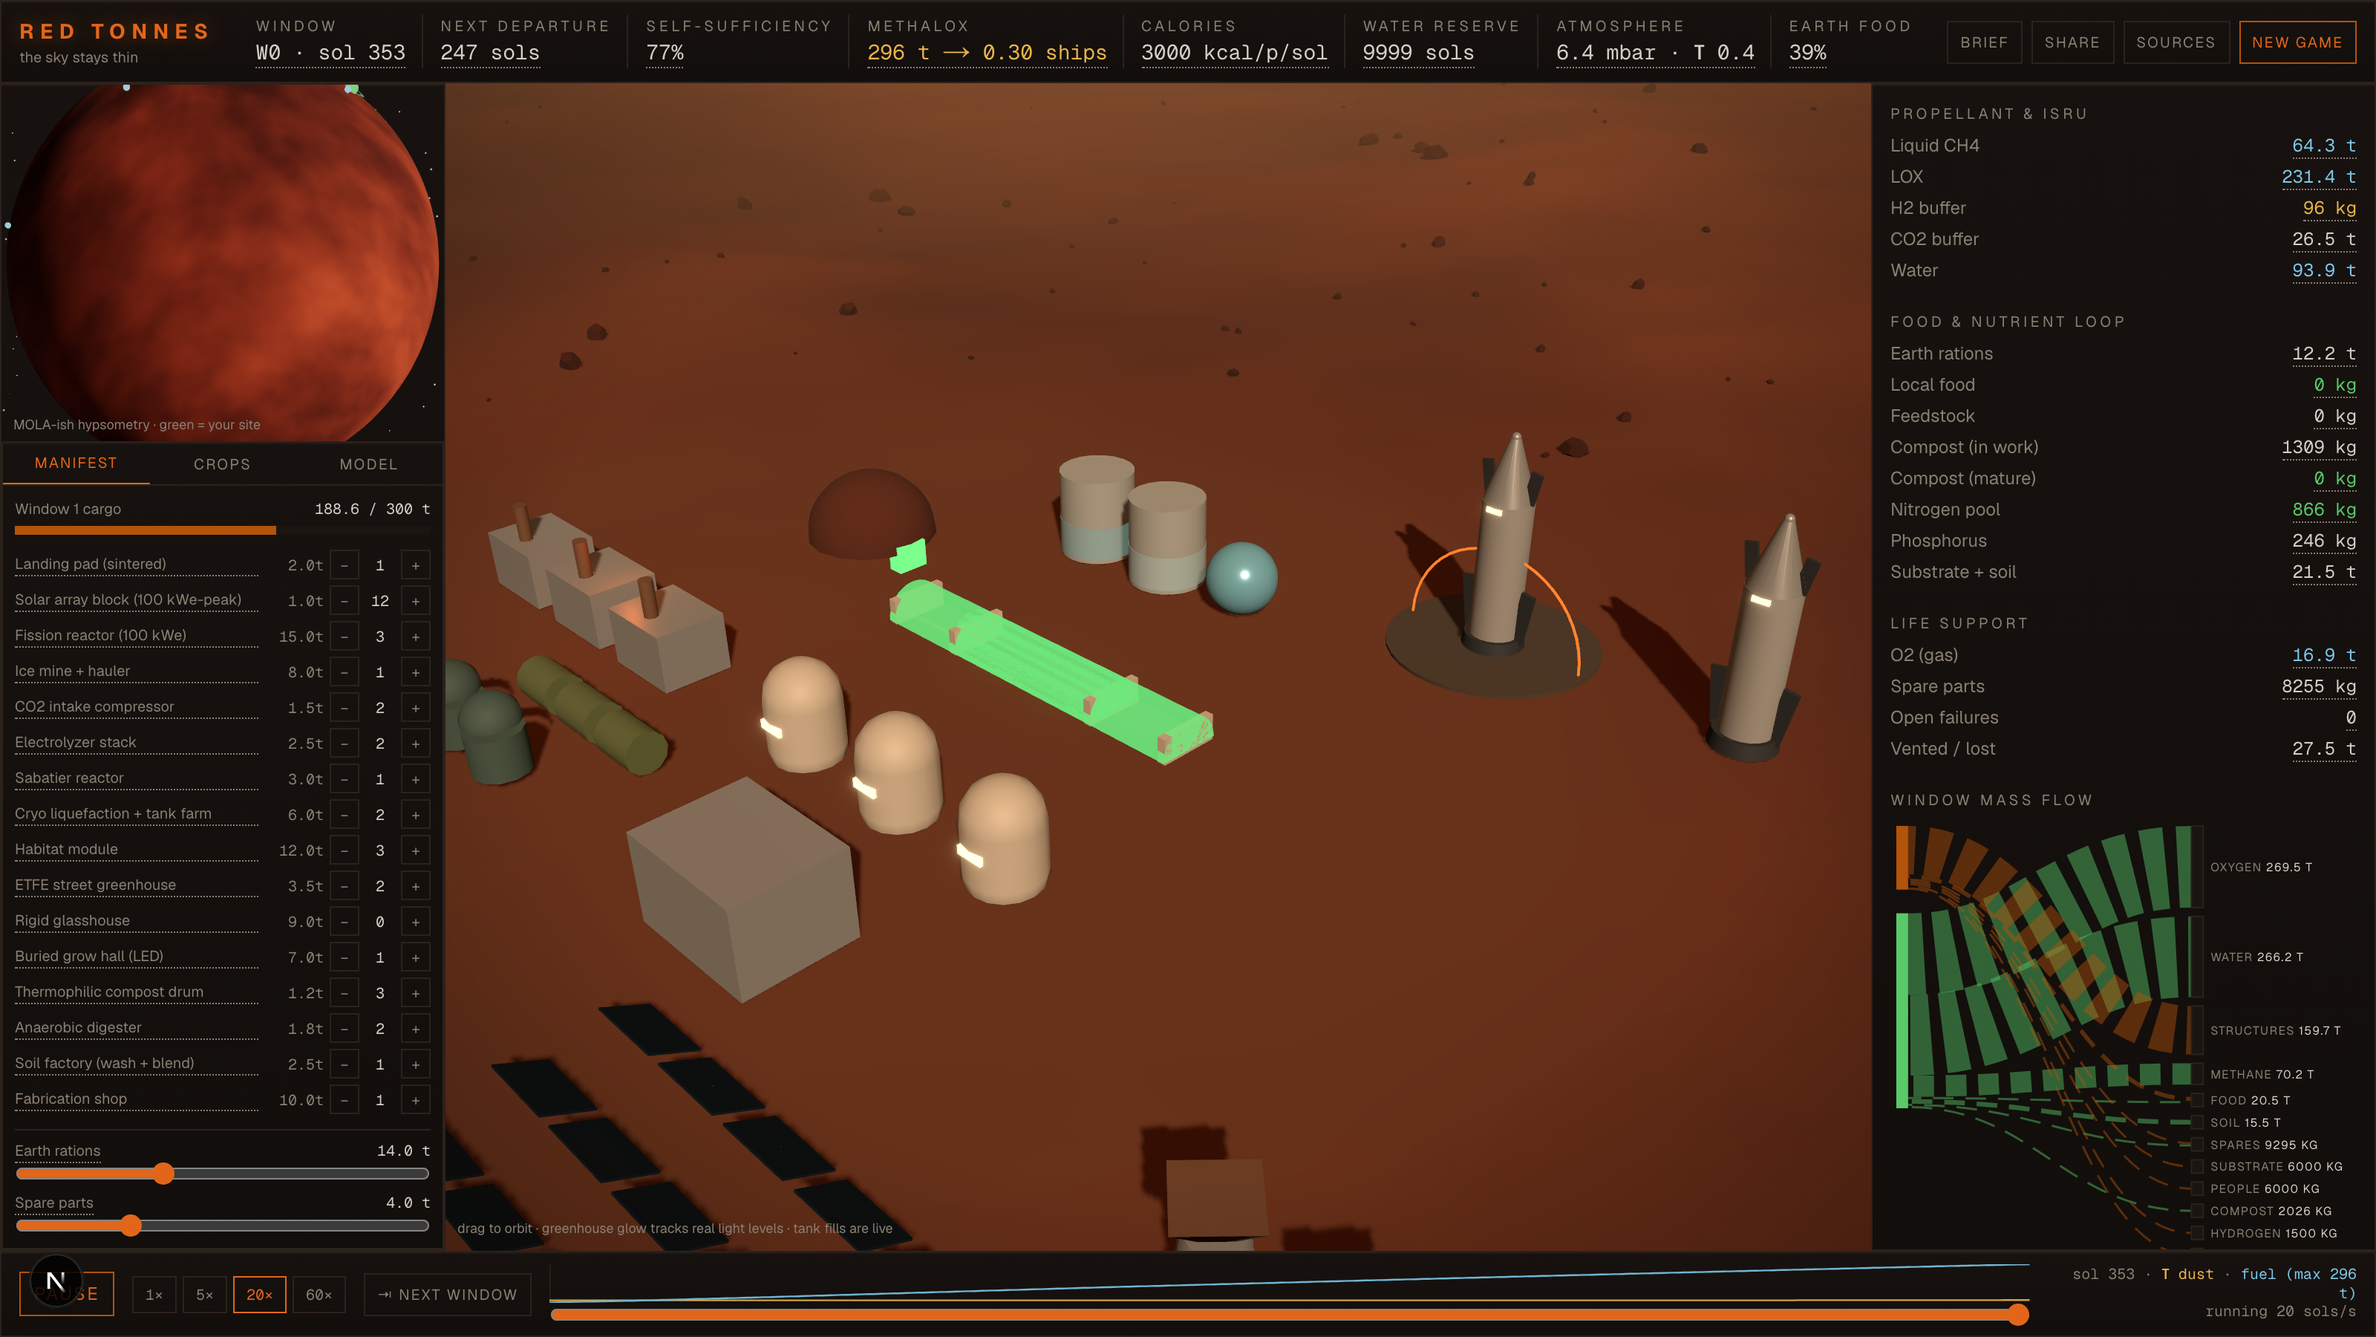
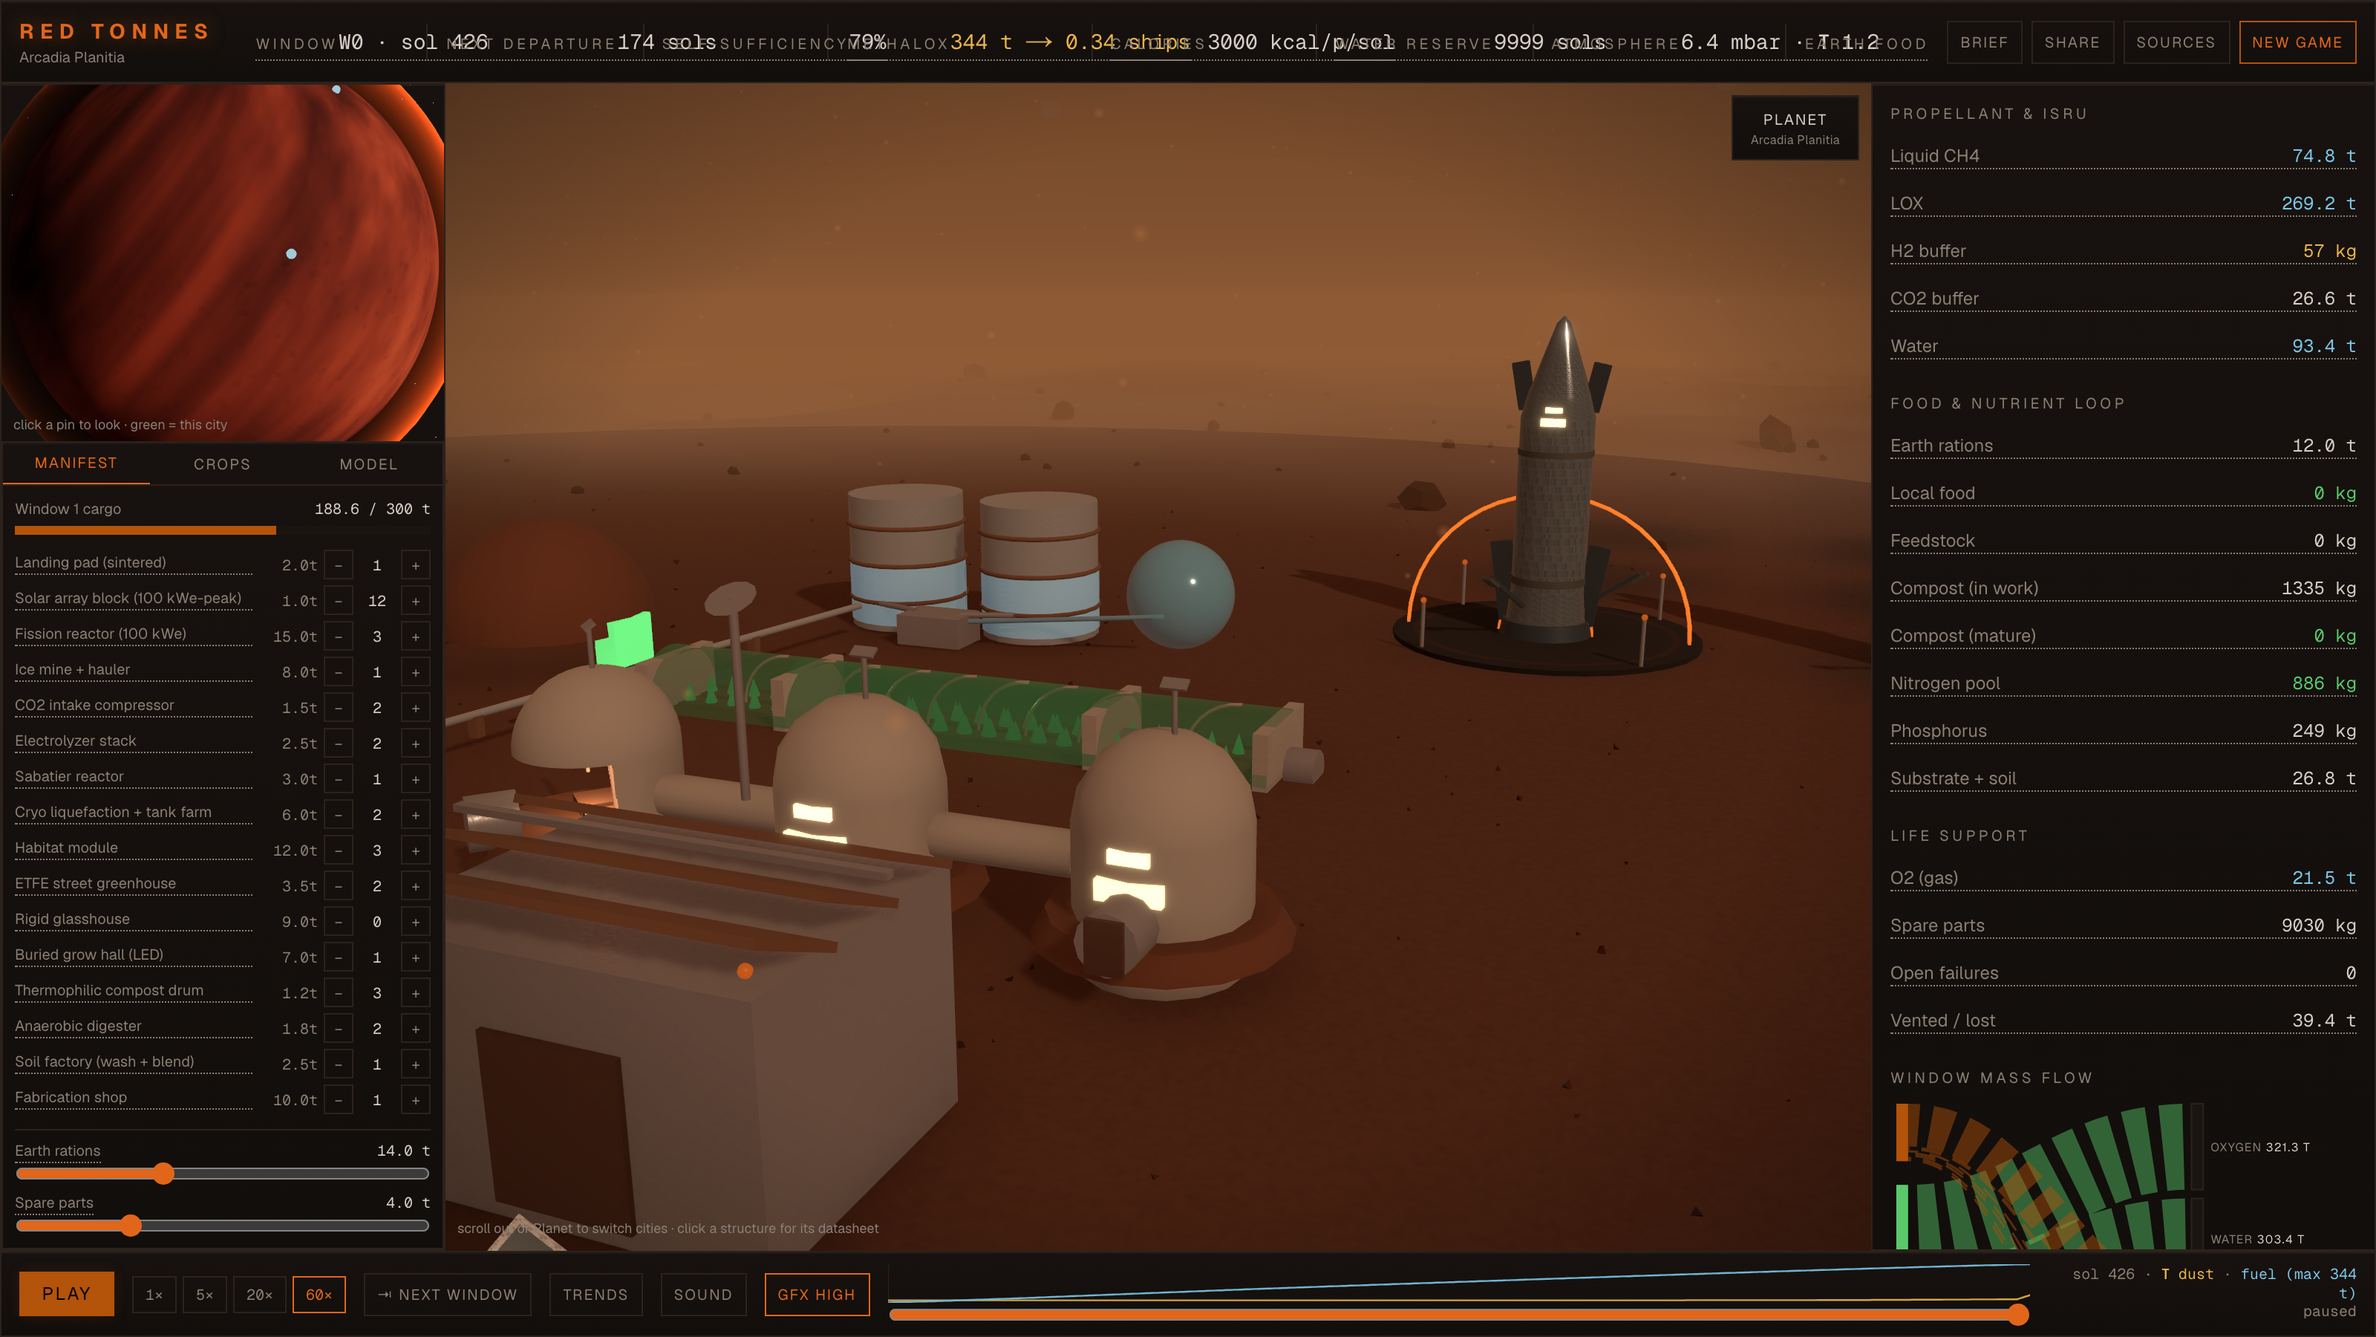
Show crops through greenhouse film and let a real storm darken the street.

diff --git a/src/components/three/Settlement.tsx b/src/components/three/Settlement.tsx
@@ -101,15 +101,29 @@ function InstancedSolarField(props: { count: number }): React.ReactElement | nul
   }
   return (
     <group>
-      <instancedMesh ref={frameRef} args={[frameGeo, MAT.steel, props.count]} />
+      <instancedMesh
+        ref={frameRef}
+        args={[frameGeo, MAT.steel, props.count]}
+        frustumCulled={false}
+      />
       <instancedMesh
         ref={cellRef}
         args={[cellGeo, MAT.solar, props.count]}
         castShadow
         receiveShadow
+        frustumCulled={false}
       />
-      <instancedMesh ref={postRef} args={[postGeo, MAT.steel, props.count]} castShadow />
-      <instancedMesh ref={boxRef} args={[boxGeo, MAT.rustSteel, props.count]} />
+      <instancedMesh
+        ref={postRef}
+        args={[postGeo, MAT.steel, props.count]}
+        castShadow
+        frustumCulled={false}
+      />
+      <instancedMesh
+        ref={boxRef}
+        args={[boxGeo, MAT.rustSteel, props.count]}
+        frustumCulled={false}
+      />
     </group>
   );
 }
@@ -309,7 +323,7 @@ function CryoFarm(props: { ch4Fill: number; loxFill: number; waterFill: number }
           <cylinderGeometry args={[1.41, 1.41, 3.0, 20]} />
         </mesh>
       </group>
-      <mesh position={[7.2, 1.2, 0]} material={MAT.waterDome} castShadow receiveShadow>
+      <mesh position={[7.2, 1.2, 0]} material={MAT.waterDome} receiveShadow>
         <sphereGeometry args={[1.3 * (0.6 + props.waterFill * 0.4), 24, 24]} />
       </mesh>
       <mesh position={[1.8, 0.35, 1.8]} material={MAT.steel} castShadow>
@@ -441,9 +455,13 @@ function GreenhouseStreet(props: {
   const high = tier === 'high';
   useFrame(() => {
     if (shell.current) {
-      shell.current.emissiveIntensity = 0.08 + props.glow * (props.rigid ? 1.1 : 1.35);
+      // The shell is a window, not a lamp — crops carry the street's glow.
+      // Medium/low film is more opaque, so it keeps a little more of its own light.
+      shell.current.emissiveIntensity = high
+        ? 0.03 + props.glow * 0.18
+        : 0.05 + props.glow * 0.35;
     }
-    MAT.plant.emissiveIntensity = 0.22 + props.glow * 1.25;
+    MAT.plant.emissiveIntensity = 0.28 + props.glow * 1.15;
   });
   const ribs: React.ReactElement[] = [];
   const step = props.rigid ? 1.6 : 2.1;
@@ -456,20 +474,25 @@ function GreenhouseStreet(props: {
   }
   return (
     <group position={props.position}>
-      <mesh rotation={[0, 0, Math.PI / 2]} castShadow>
+      <mesh rotation={[0, 0, Math.PI / 2]}>
         <cylinderGeometry args={[1.1, 1.1, props.length, 24, 1, false, 0, Math.PI]} />
         {high ? (
           <meshPhysicalMaterial
             ref={shell}
             color={props.rigid ? '#2a3834' : '#2a3c2c'}
-            roughness={props.rigid ? 0.08 : 0.28}
+            roughness={props.rigid ? 0.08 : 0.32}
             metalness={0}
-            transmission={props.rigid ? 0.45 : 0.72}
-            thickness={0.4}
-            ior={props.rigid ? 1.5 : 1.38}
+            transparent
+            opacity={props.rigid ? 0.7 : 0.5}
+            depthWrite={false}
+            side={THREE.DoubleSide}
+            // N8AO + EffectComposer has no transmission buffer — physical film, not a black shell.
+            transmission={0}
+            clearcoat={props.rigid ? 0.42 : 0.08}
+            clearcoatRoughness={props.rigid ? 0.1 : 0.55}
             attenuationColor="#3d9a4a"
             emissive="#59c96a"
-            emissiveIntensity={0.1}
+            emissiveIntensity={0.05}
           />
         ) : (
           <meshStandardMaterial
@@ -479,6 +502,7 @@ function GreenhouseStreet(props: {
             metalness={props.rigid ? 0.15 : 0}
             transparent
             opacity={props.rigid ? 0.82 : 0.68}
+            depthWrite={false}
             emissive="#59c96a"
             emissiveIntensity={0.1}
           />
@@ -665,7 +689,7 @@ export function Settlement(): React.ReactElement {
       </Pick>
 
       <Pick id="solar">
-        <InstancedSolarField count={st.solar * 3} />
+        <InstancedSolarField key={`sol-${st.solar * 3}`} count={st.solar * 3} />
       </Pick>
 
       <Pick id="nuclear">

diff --git a/src/components/three/atmosphere.tsx b/src/components/three/atmosphere.tsx
@@ -64,7 +64,7 @@ const SKY_FRAGMENT = /* glsl */ `
     float cosSun = max(dot(dir, sunDir), 0.0);
     sky += sunColor * pow(cosSun, mix(26.0, 6.0, haze)) * mix(0.55, 0.2, haze);
     float disc = smoothstep(mix(0.99993, 0.9994, haze), 0.99997, cosSun);
-    sky += sunColor * disc * mix(2.6, 0.4, haze);
+    sky += sunColor * disc * mix(3.4, 0.35, haze);
     float stars = step(0.9965, hash13(floor(dir * 92.0))) * pow(h, 2.2) * (1.0 - haze);
     sky += vec3(0.95, 0.88, 0.8) * stars * 0.65;
     vec3 spaceCol = vec3(0.027, 0.024, 0.039);
@@ -72,6 +72,11 @@ const SKY_FRAGMENT = /* glsl */ `
     gl_FragColor = vec4(sky, 1.0);
   }
 `;
+
+/** Scratch colors so the sky can chase a continuous storm mix without allocating. */
+const SKY_TOP = new THREE.Color();
+const SKY_HORIZON = new THREE.Color();
+const SKY_SUN = new THREE.Color();
 
 /** Sky palette endpoints, lerped by live daylight each frame. */
 export const SKY_CLEAR = {
@@ -112,12 +117,12 @@ function SkyDome(props: { daylight: number }): React.ReactElement {
   useFrame((_, delta) => {
     const storminess = 1 - props.daylight;
     const k = clamp(delta * 1.5, 0, 1);
-    uniforms.topColor.value.lerp(storminess > 0.5 ? SKY_STORM.top : SKY_CLEAR.top, k);
-    uniforms.horizonColor.value.lerp(
-      storminess > 0.5 ? SKY_STORM.horizon : SKY_CLEAR.horizon,
-      k,
-    );
-    uniforms.sunColor.value.lerp(storminess > 0.5 ? SKY_STORM.sun : SKY_CLEAR.sun, k);
+    SKY_TOP.copy(SKY_CLEAR.top).lerp(SKY_STORM.top, storminess);
+    SKY_HORIZON.copy(SKY_CLEAR.horizon).lerp(SKY_STORM.horizon, storminess);
+    SKY_SUN.copy(SKY_CLEAR.sun).lerp(SKY_STORM.sun, storminess);
+    uniforms.topColor.value.lerp(SKY_TOP, k);
+    uniforms.horizonColor.value.lerp(SKY_HORIZON, k);
+    uniforms.sunColor.value.lerp(SKY_SUN, k);
     // eslint-disable-next-line react-hooks/immutability -- three.js uniforms are mutated in the frame loop by design
     uniforms.haze.value += (storminess - uniforms.haze.value) * k;
     uniforms.fade.value = 1 - ORBIT.space;
@@ -438,13 +443,13 @@ export function DustRig(): React.ReactElement {
     const k = Math.min(1, delta * 1.5);
     coat.current += (1 - daylight - coat.current) * k;
     applyDustCoat(coat.current);
-    state.gl.toneMappingExposure = 0.58 + daylight * 0.52;
-    state.scene.environmentIntensity = (0.18 + daylight * 0.28) * (1 - space * 0.45);
+    state.gl.toneMappingExposure = 0.46 + daylight * 0.64;
+    state.scene.environmentIntensity = (0.14 + daylight * 0.32) * (1 - space * 0.45);
     if (hemi.current) {
       hemi.current.intensity = (0.42 + daylight * 0.55) * (1 - space * 0.72);
     }
     if (cityFill.current) {
-      cityFill.current.intensity = 1.7 * (1 - space);
+      cityFill.current.intensity = 1.7 * (1 - space) * (0.2 + daylight * 0.8);
     }
     if (spaceSun.current) {
       spaceSun.current.intensity = 0.15 + space * 2.4;

diff --git a/src/components/three/Starships.tsx b/src/components/three/Starships.tsx
@@ -43,6 +43,7 @@ const PLUME_VERTEX = /* glsl */ `
 `;
 const PLUME_FRAGMENT = /* glsl */ `
   uniform float time;
+  uniform float gain;
   uniform vec3 coreColor;
   uniform vec3 tipColor;
   varying vec2 vUv;
@@ -63,7 +64,7 @@ const PLUME_FRAGMENT = /* glsl */ `
   void main() {
     float along = vUv.y;
     float n = noise(vec2(vUv.x * 8.0, vUv.y * 5.0 - time * 6.2));
-    float core = smoothstep(1.0, 0.12, along) * (0.55 + 0.45 * n);
+    float core = smoothstep(1.0, 0.12, along) * (0.55 + 0.45 * n) * gain;
     vec3 col = mix(coreColor, tipColor, 1.0 - along);
     float alpha = core;
     gl_FragColor = vec4(col * alpha, alpha);
@@ -73,19 +74,31 @@ const PLUME_FRAGMENT = /* glsl */ `
 /** Typed plume uniforms. */
 interface PlumeUniforms {
   readonly time: { value: number };
+  readonly gain: { value: number };
   readonly coreColor: { value: THREE.Color };
   readonly tipColor: { value: THREE.Color };
   [uniform: string]: { value: unknown };
 }
 
-const PLUME_UNIFORMS: PlumeUniforms = {
-  time: { value: 0 },
-  coreColor: { value: new THREE.Color('#ffb36b') },
-  tipColor: { value: new THREE.Color('#ff7a2a') },
-};
+/**
+ * Build additive plume uniforms. Inner and outer cones share time via the
+ * frame loop, but gain keeps the sheath from matching the core.
+ * @param gain - Opacity scale, 1 = core, less = sheath.
+ */
+function plumeUniforms(gain: number): PlumeUniforms {
+  return {
+    time: { value: 0 },
+    gain: { value: gain },
+    coreColor: { value: new THREE.Color('#ffb36b') },
+    tipColor: { value: new THREE.Color('#ff7a2a') },
+  };
+}
+
+const PLUME_CORE_UNIFORMS = plumeUniforms(1);
+const PLUME_SHEATH_UNIFORMS = plumeUniforms(0.38);
 
 const PLUME_MAT = new THREE.ShaderMaterial({
-  uniforms: PLUME_UNIFORMS,
+  uniforms: PLUME_CORE_UNIFORMS,
   vertexShader: PLUME_VERTEX,
   fragmentShader: PLUME_FRAGMENT,
   transparent: true,
@@ -96,7 +109,7 @@ const PLUME_MAT = new THREE.ShaderMaterial({
 });
 
 const PLUME_OUTER_MAT = new THREE.ShaderMaterial({
-  uniforms: PLUME_UNIFORMS,
+  uniforms: PLUME_SHEATH_UNIFORMS,
   vertexShader: PLUME_VERTEX,
   fragmentShader: PLUME_FRAGMENT,
   transparent: true,
@@ -183,7 +196,8 @@ function Starship(props: { x: number; z: number; targetY: number }): React.React
     }
     g.position.y += (props.targetY - g.position.y) * Math.min(1, delta * 1.6);
     const airborne = g.position.y > 0.4;
-    PLUME_UNIFORMS.time.value = state.clock.elapsedTime;
+    PLUME_CORE_UNIFORMS.time.value = state.clock.elapsedTime;
+    PLUME_SHEATH_UNIFORMS.time.value = state.clock.elapsedTime;
     if (plume.current) {
       plume.current.visible = airborne;
       const flicker = 1 + 0.18 * Math.sin(state.clock.elapsedTime * 31 + props.x);

diff --git a/src/components/three/materials.ts b/src/components/three/materials.ts
@@ -301,12 +301,16 @@ export const MAT = {
   waterDome: new THREE.MeshPhysicalMaterial({
     color: '#7cc7e8',
     roughness: 0.12,
-    metalness: 0.05,
-    transmission: 0.55,
+    metalness: 0.08,
+    transparent: true,
+    opacity: 0.52,
+    depthWrite: false,
+    // Transmission needs a scene buffer the EffectComposer does not provide.
+    transmission: 0,
     thickness: 1.2,
     ior: 1.33,
-    clearcoat: 0.3,
-    clearcoatRoughness: 0.2,
+    clearcoat: 0.55,
+    clearcoatRoughness: 0.15,
   }),
   berm: new THREE.MeshStandardMaterial({ color: '#54291a', roughness: 1 }),
   rock: new THREE.MeshStandardMaterial({ color: '#5f2f1c', roughness: 1, flatShading: true }),
@@ -387,6 +391,7 @@ const COAT: readonly CoatEntry[] = [
   coatEntry(MAT.deck),
   coatEntry(MAT.drum),
   coatEntry(MAT.ch4Tank, 0.45),
+  coatEntry(MAT.iceTank),
   coatEntry(MAT.intake),
   coatEntry(MAT.darkGlass),
   coatEntry(MAT.digester),
@@ -405,9 +410,9 @@ export function applyDustCoat(amount: number): void {
     if (!e) {
       continue;
     }
-    e.mat.color.copy(e.color).lerp(DUST, a * 0.62);
-    e.mat.roughness = e.roughness + (1 - e.roughness) * a * 0.72;
-    e.mat.metalness = e.metalness * (1 - a * 0.78);
+    e.mat.color.copy(e.color).lerp(DUST, a * 0.78);
+    e.mat.roughness = e.roughness + (1 - e.roughness) * a * 0.8;
+    e.mat.metalness = e.metalness * (1 - a * 0.85);
     if (e.clearcoat !== null && e.mat instanceof THREE.MeshPhysicalMaterial) {
       e.mat.clearcoat = e.clearcoat * (1 - a * 0.85);
     }
@@ -452,19 +457,21 @@ export function bindCanvasMaps(): void {
     MAT.rustSteel.normalScale = new THREE.Vector2(0.45, 0.45);
     MAT.ch4Tank.normalMap = steelN;
     MAT.ch4Tank.normalScale = new THREE.Vector2(0.22, 0.22);
+    MAT.ch4Tank.needsUpdate = true;
   }
   if (steelR) {
     steelR.repeat.set(4, 2);
     MAT.steel.roughnessMap = steelR;
     MAT.intake.roughnessMap = steelR;
+    MAT.ch4Tank.roughnessMap = steelR;
   }
   MAT.steel.needsUpdate = true;
   MAT.rustSteel.needsUpdate = true;
   const gravel = buildGravelNormal();
   if (gravel) {
-    gravel.repeat.set(48, 48);
+    gravel.repeat.set(28, 28);
     MAT.regolith.normalMap = gravel;
-    MAT.regolith.normalScale = new THREE.Vector2(0.7, 0.7);
+    MAT.regolith.normalScale = new THREE.Vector2(0.58, 0.58);
     MAT.regolith.needsUpdate = true;
   }
   mapsBound = true;

diff --git a/src/components/three/MarsBody.tsx b/src/components/three/MarsBody.tsx
@@ -154,7 +154,8 @@ const ATMO_FRAGMENT = /* glsl */ `
     float sunFacing = smoothstep(-0.2, 0.5, dot(n, sunDir));
     float night = 0.18 + 0.82 * sunFacing;
     vec3 col = mix(glowColor, vec3(0.55, 0.28, 0.16), dust);
-    gl_FragColor = vec4(col * fresnel * night * 2.05 * strength, 1.0);
+    float glow = fresnel * night * mix(1.55, 0.95, dust) * strength;
+    gl_FragColor = vec4(col * glow, 1.0);
   }
 `;
 
@@ -277,7 +278,7 @@ export function MarsBody(props: MarsBodyProps): React.ReactElement {
           <meshStandardMaterial
             map={maps.color}
             bumpMap={maps.bump}
-            bumpScale={radius > 10 ? 12 : 0.04}
+            bumpScale={radius > 10 ? 2.4 : 0.045}
             roughness={0.92}
             metalness={0}
           />

diff --git a/src/components/TimeScrubber.tsx b/src/components/TimeScrubber.tsx
@@ -239,7 +239,7 @@ export function TimeScrubber(props: { variant?: 'bar' | 'panel' }): React.ReactE
               ? 'border-[var(--line)] text-[var(--text)]'
               : 'border-[var(--line)] text-[var(--dim)] hover:text-[var(--text)] hover:border-[var(--rust)]'
         }`}
-        title="Desktop WebGL quality. Phones stay on the lite path. High: transmission, AO, 2k shadows. Medium: bloom without AO. Low: no shadows."
+        title="Desktop WebGL quality. Phones stay on the lite path. High: physical film, AO, 2k shadows. Medium: bloom without AO. Low: no shadows."
       >
         GFX {graphicsQuality}
       </button>

diff --git a/src/components/three/CityScene.tsx b/src/components/three/CityScene.tsx
@@ -303,7 +303,7 @@ function SceneFX(props: { tier: GraphicsQuality; city: boolean }): React.ReactEl
   return (
     <EffectComposer multisampling={high ? 4 : 0}>
       {high ? <N8AO aoRadius={2.2} intensity={1.05} quality="medium" halfRes color="#2a140c" /> : null}
-      {rich ? <Bloom luminanceThreshold={0.88} mipmapBlur intensity={0.48} radius={0.55} /> : null}
+      {rich ? <Bloom luminanceThreshold={0.82} mipmapBlur intensity={0.5} radius={0.52} /> : null}
       {rich ? <SMAA /> : null}
     </EffectComposer>
   );

diff --git a/README.md b/README.md
@@ -21,12 +21,12 @@ A clear sol — Starships on the pads, greenhouses glowing, ISRU humming.
 Ship traffic is real: arrivals descend on landing burns when a window opens,
 and a fueled ship climbs out at the departure sol:
 
-![Clear day at Arcadia Planitia, sol 337](docs/screenshot-clear.png)
+![Clear day at Arcadia Planitia, sol 336](docs/screenshot-clear.png)
 
-Then the global dust storm hits (τ 4.3): solar collapses, the city dims to
+Then the global dust storm hits (τ 4.6): solar collapses, the city dims to
 its nuclear floor, and ISRU turns down while life support holds:
 
-![Global dust storm, sol 480, optical depth 4.3](docs/screenshot.png)
+![Global dust storm, sol 451, optical depth 4.6](docs/screenshot.png)
 
 ## Install & run
 
